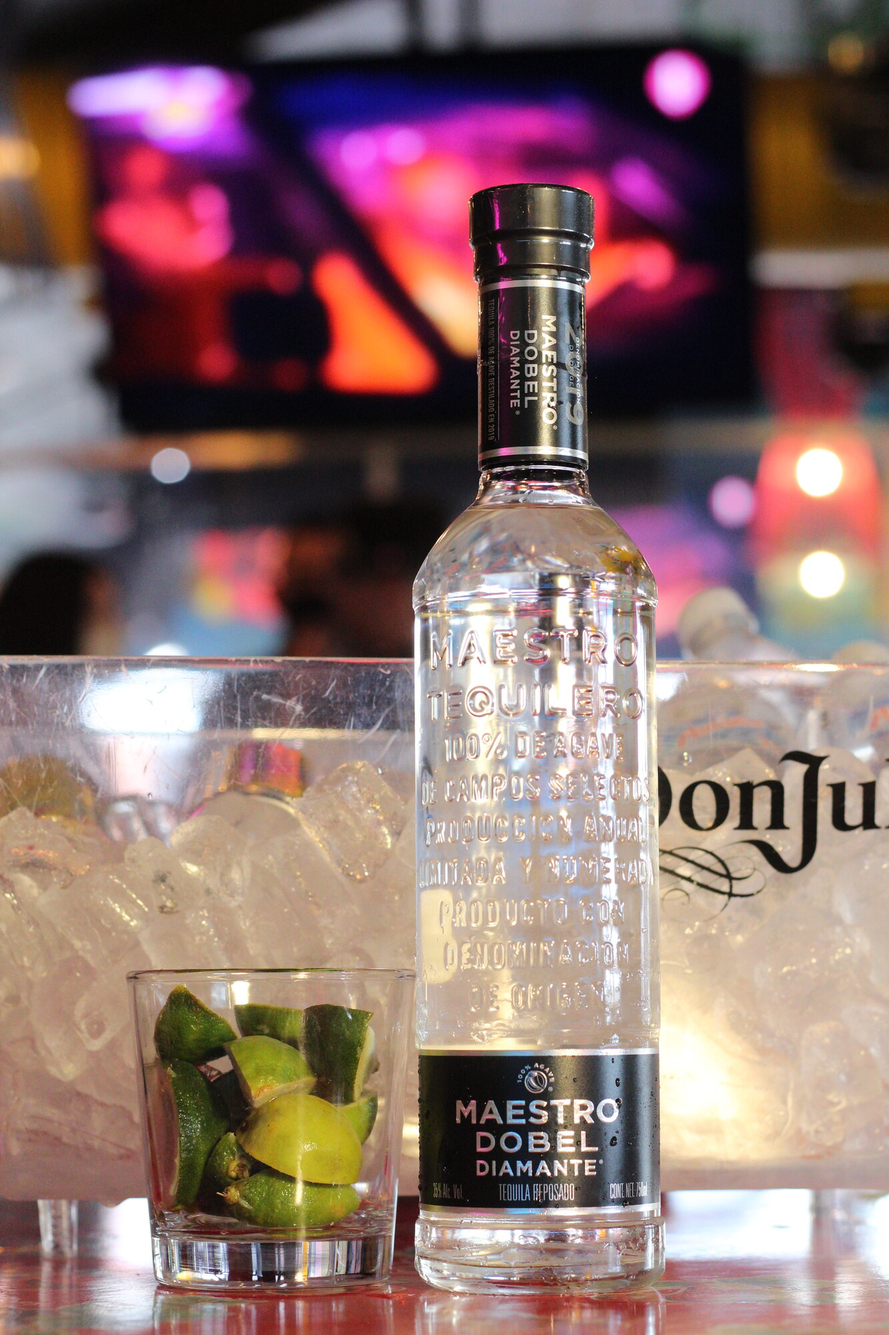
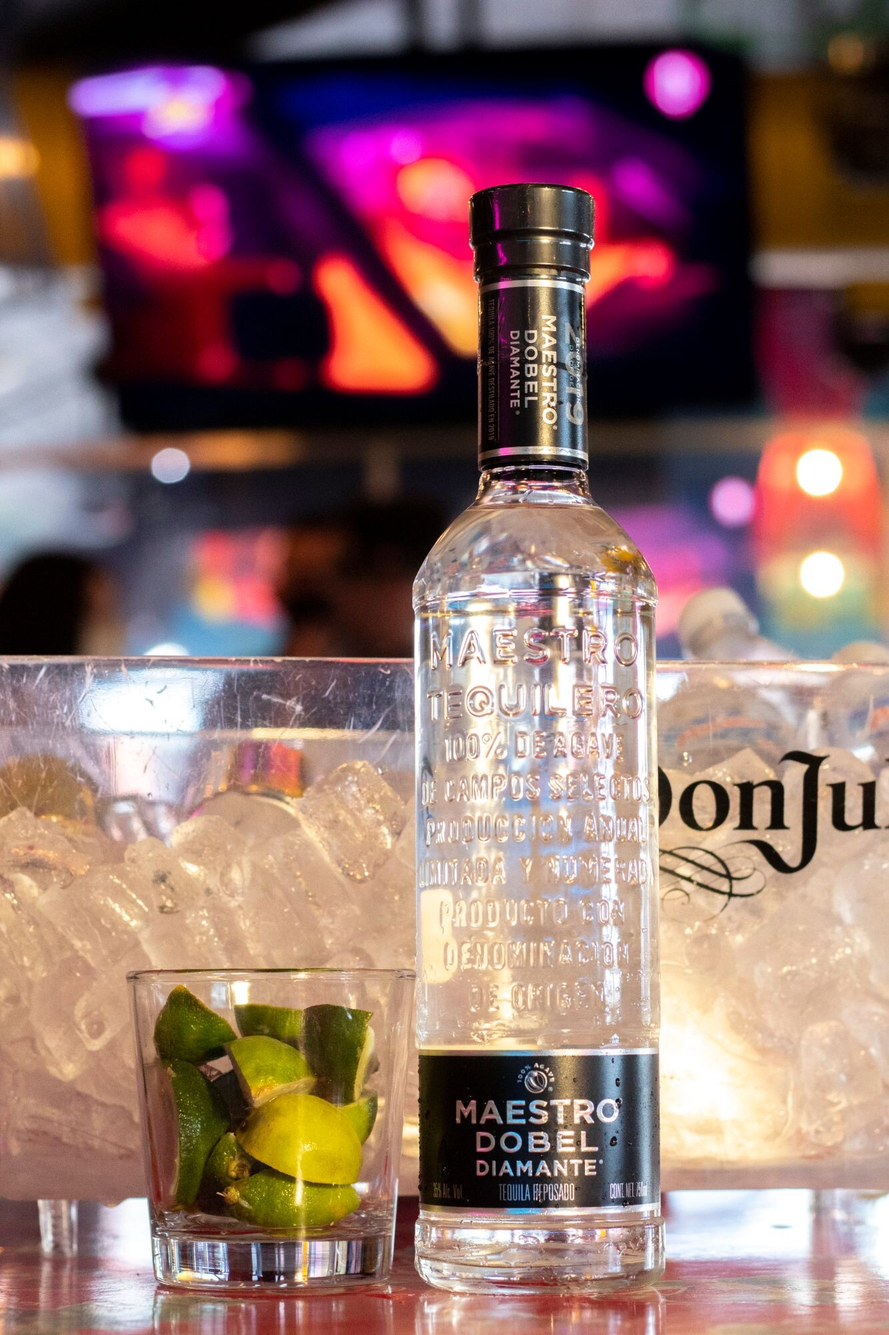
Add 4 photos to Cotorritos and replace the CR2 preview of the tequila shot with the retouched JPG
Claude-Session: https://claude.ai/code/session_01QgxAMKEnKhkRG8UedDUsZ7

diff --git a/script.js b/script.js
@@ -118,7 +118,7 @@ const translations = {
     'expertise.linkCase': 'See the DHM Tools case',
     'projects.cotorritos.title': 'Cotorritos — Beverage Photography',
     'projects.cotorritos.desc': 'Product photography for a bar\'s signature drinks.',
-    'projects.cotorritos.meta': 'Product & lifestyle photography · 9 photos',
+    'projects.cotorritos.meta': 'Product & lifestyle photography · 13 photos',
     'projects.lozanoMesPatrio.title': 'Refrigeración Lozano — Independence Month Campaign',
     'projects.lozanoMesPatrio.desc': 'Independence Month promo campaign built on Refrigeración Lozano\'s brand system: \'¡Viva el ahorro!\' social posts plus limited-time minisplit offers.',
     'projects.lozanoMesPatrio.meta': 'Social media · 3 pieces',
@@ -272,7 +272,7 @@ const translations = {
     'expertise.linkCase': 'Ver el caso DHM Tools',
     'projects.cotorritos.title': 'Cotorritos — Fotografía de Bebidas',
     'projects.cotorritos.desc': 'Fotografía de producto para las bebidas de la casa de un bar.',
-    'projects.cotorritos.meta': 'Fotografía de producto y lifestyle · 9 fotos',
+    'projects.cotorritos.meta': 'Fotografía de producto y lifestyle · 13 fotos',
     'projects.lozanoMesPatrio.title': 'Refrigeración Lozano — Campaña Mes Patrio',
     'projects.lozanoMesPatrio.desc': 'Campaña promocional de Mes Patrio sobre el sistema de marca de Refrigeración Lozano: posts \'¡Viva el ahorro!\' y ofertas por tiempo limitado en minisplits.',
     'projects.lozanoMesPatrio.meta': 'Redes sociales · 3 piezas',
@@ -533,6 +533,10 @@ const galleries = {
     'assets/img/cotorritos-7-full.jpg',
     'assets/img/cotorritos-8-full.jpg',
     'assets/img/cotorritos-9-full.jpg',
+    'assets/img/cotorritos-10-full.jpg',
+    'assets/img/cotorritos-11-full.jpg',
+    'assets/img/cotorritos-12-full.jpg',
+    'assets/img/cotorritos-13-full.jpg',
   ],
 };
 

diff --git a/index.html b/index.html
@@ -329,7 +329,7 @@
             <span class="project-tag" data-i18n="topic.content">Photo Content</span>
             <h3 data-i18n="projects.cotorritos.title">Cotorritos — Beverage Photography</h3>
             <p data-i18n="projects.cotorritos.desc">Product photography for a bar's signature drinks.</p>
-            <p class="project-meta" data-i18n="projects.cotorritos.meta">Product &amp; lifestyle photography · 9 photos</p>
+            <p class="project-meta" data-i18n="projects.cotorritos.meta">Product &amp; lifestyle photography · 13 photos</p>
           </div>
         </article>
 
